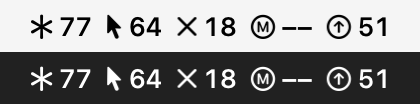
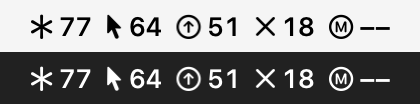
Order services: Claude, Cursor, Antigravity, Grok Bot, Muse, Gemini

Changed region(s): [[0.4024, 0.6346, 0.9286, 0.8942], [0.4024, 0.1442, 0.9286, 0.375]]

diff --git a/server/src/status.js b/server/src/status.js
@@ -1,6 +1,8 @@
 import { computePace, WINDOW_HOURS } from './pacing.js';
 
 export const PROVIDER_NAMES = { claude: 'Claude', cursor: 'Cursor', gemini: 'Gemini', muse: 'Muse (Meta)', antigravity: 'Antigravity' };
+// Display order for providers everywhere (dashboard cards, table, CLI); unknown ids go last, A–Z.
+const PROVIDER_ORDER = ['claude', 'cursor', 'antigravity', 'muse', 'gemini'];
 const WINDOW_ORDER = { session: 0, daily: 1, weekly: 2, monthly: 3, other: 4 };
 const DEFAULT_STALE_AFTER_MS = 60 * 6e4;
 const HIDE_AFTER_DAYS = 7;
@@ -34,5 +36,7 @@ export function buildStatus(db, now = new Date(), { staleAfterMs = DEFAULT_STALE
     if (!p.lastCapturedAt || row.captured_at > p.lastCapturedAt) p.lastCapturedAt = row.captured_at;
   }
   for (const p of providers.values()) p.meters.sort((a, b) => (WINDOW_ORDER[a.window] ?? 9) - (WINDOW_ORDER[b.window] ?? 9) || a.label.localeCompare(b.label));
-  return { generatedAt: now.toISOString(), providers: [...providers.values()] };
+  const rank = (id) => (PROVIDER_ORDER.includes(id) ? PROVIDER_ORDER.indexOf(id) : PROVIDER_ORDER.length);
+  const ordered = [...providers.values()].sort((a, b) => rank(a.id) - rank(b.id) || a.id.localeCompare(b.id));
+  return { generatedAt: now.toISOString(), providers: ordered };
 }

diff --git a/menubar/TokenTrackingMenu.swift b/menubar/TokenTrackingMenu.swift
@@ -181,9 +181,9 @@ enum MenuBarGlyphs {
     static let services: [(id: String, symbol: String, name: String, matches: (String, String) -> Bool)] = [
         ("claude", "asterisk", "Claude", { p, _ in p == "claude" }),
         ("cursor", "cursorarrow", "Cursor", { p, m in p == "cursor" && m != "grok-bot" }),
+        ("antigravity", "arrow.up.circle", "Antigravity", { p, _ in p == "antigravity" }),
         ("grok-bot", "xmark", "Grok Bot", { p, m in p == "cursor" && m == "grok-bot" }),
         ("muse", "m.circle", "Muse", { p, _ in p == "muse" }),
-        ("antigravity", "arrow.up.circle", "Antigravity", { p, _ in p == "antigravity" }),
     ]
 
     /// Two characters: % used 0–99 (single digits padded with a trailing figure space so the width is

diff --git a/scripts/screenshots.js b/scripts/screenshots.js
@@ -58,7 +58,7 @@ try {
   const swiftFile = join(home, 'glyphs.swift');
   writeFileSync(swiftFile, `import AppKit
 ${glyphs}
-let slots = [("asterisk", 77.0), ("cursorarrow", 64), ("xmark", 18), ("m.circle", 100), ("arrow.up.circle", 51)]
+let slots = [("asterisk", 77.0), ("cursorarrow", 64), ("arrow.up.circle", 51), ("xmark", 18), ("m.circle", 100)]
   .map { MenuSlot(symbol: $0.0, text: MenuBarGlyphs.digits($0.1)) }
 let glyph = MenuBarGlyphs.image(for: slots)
 let s: CGFloat = 2, pad: CGFloat = 14, band: CGFloat = 26

diff --git a/README.md b/README.md
@@ -38,7 +38,7 @@ No API keys, no accounts, no cloud, no browser extension.
 - **Status at a glance.** Shown as a colored dot plus a label: On pace, Ahead of pace, Will run out before reset, Limit reached.
 - **History.** A sparkline per meter, with hover readouts, from every snapshot stored locally in SQLite.
 - **Menu bar app:**
-  - **Title:** one icon and % per service, e.g. `✳74 ➚70 ✕86 Ⓜ97 ⇧51`. Each number is that service's worst meter, `––` means at the limit, and hovering shows details.
+  - **Title:** one icon and % per service, e.g. `✳74 ➚70 ⇧51 ✕86 Ⓜ97`. Each number is that service's worst meter, `––` means at the limit, and hovering shows details.
   - **Click it** for a compact dashboard with Refresh now / Open dashboard / Quit.
   - **Lifecycle:** it starts and stops everything it needs.
 - **Also:** the full dashboard at http://127.0.0.1:7878 (card and table views, light and dark) and `npm run status` in the terminal.
@@ -76,7 +76,7 @@ Requirements: macOS 13+, Node.js ≥ 22.13 (for the built-in `node:sqlite`), Goo
 ### The menu bar app
 
 - **What it shows:** one icon per service, each with a digit for that service's worst meter:
-  - **Icons:** ✳ Claude, ➚ Cursor, ✕ Grok Bot, Ⓜ Muse, ⇧ Antigravity. Gemini is only on the dashboard (its limits rarely matter); change `MenuBarGlyphs.services` to pick your own.
+  - **Icons** (in order): ✳ Claude, ➚ Cursor, ⇧ Antigravity, ✕ Grok Bot, Ⓜ Muse. Gemini is only on the dashboard (its limits rarely matter); change `MenuBarGlyphs.services` to pick your own.
   - **The number** is the % used (0–99), `––` = at the limit, `??` = no reading yet.
   - **Hover** for exact numbers and the most at-risk meter. Click for the compact dashboard.
 - **It's the only thing you run.** Opening it starts the local service in the background (and restarts it if it dies). Quitting it stops the service, and the service also exits by itself if the app is force-killed. Service logs go to `~/.tokentracking/service.log`.

diff --git a/CHANGELOG.md b/CHANGELOG.md
@@ -3,6 +3,8 @@
 All notable changes to this project are recorded here. Format: [Keep a Changelog](https://keepachangelog.com/en/1.1.0/), versions: [SemVer](https://semver.org/).
 
 ## [Unreleased]
+### Changed
+- Consistent service order everywhere: Claude, Cursor, Antigravity, (Grok Bot), Muse, Gemini. The menu bar shows Claude ✳, Cursor ➚, Antigravity ⇧, Grok Bot ✕, Muse Ⓜ; Gemini is dashboard-only.
 ### Fixed
 - **Menu bar icon hidden even though "Allow in the Menu Bar" was on.** The permission was tied to an older ad-hoc-signed build. Builds are now signed with a stable self-signed local certificate (`scripts/create-signing-cert.sh`), and the bundle id changed to `io.github.mduppes.tokentracking` (a fresh entry; old entries can be switched off).
 - Menu bar icon never appeared: recent macOS hides new apps' menu bar items until they're allowed in System Settings → Menu Bar. The app now detects a hidden icon continuously, explains it in the fallback window (with an "Open Menu Bar settings" button), and returns to the menu bar once it's allowed.
